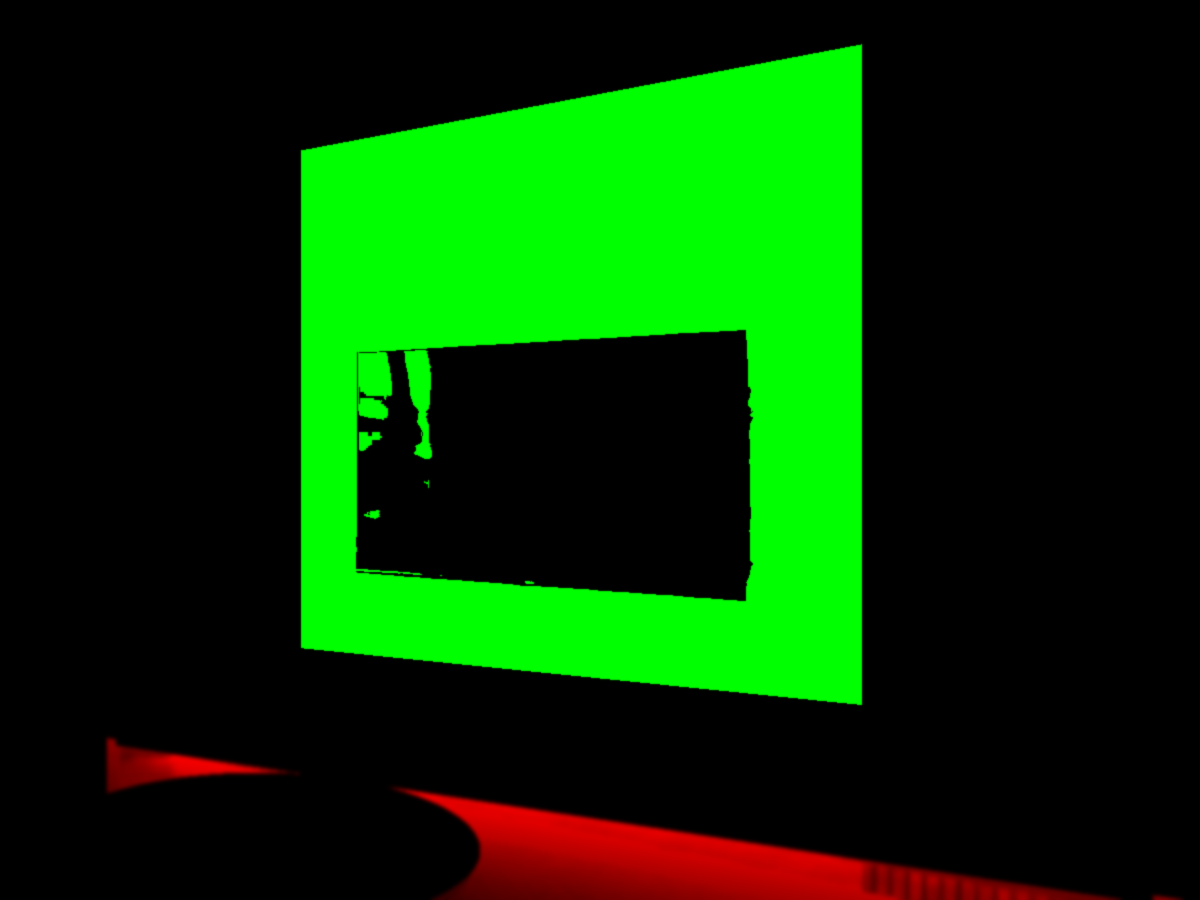
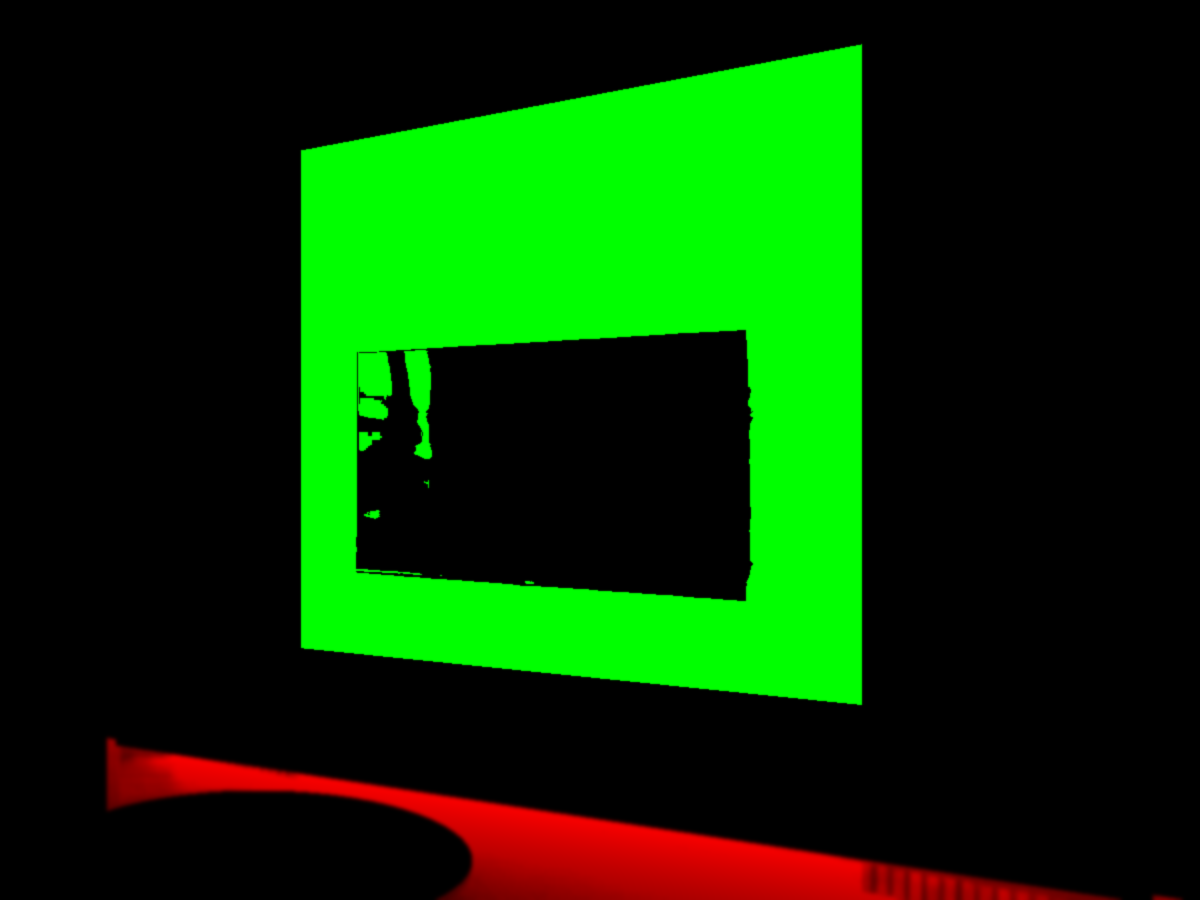
Fit the unit recolouring cleanly and turn the LED fully off
The wood mask now covers the whole slat and cabinet areas, shadows and
gaps included, picking out only the vases, plant, books and armchair, so
no walnut is left showing through a lacquer finish. Lacquers lose the
fine grain but keep the drawer gaps. The LED-off light map reaches the
floor behind the coffee table and dims it further.

Changed region(s): [[0.0617, 0.84, 0.8633, 1.0]]

diff --git a/arkhera.html b/arkhera.html
@@ -849,13 +849,13 @@ document.documentElement.classList.add('js');
   const reduce = matchMedia('(prefers-reduced-motion: reduce)').matches;
   const RAMP = { // dark → light, for wood and lacquer
     ceviz: [[38, 24, 16], [150, 108, 74]], mese: [[112, 76, 44], [228, 188, 136]],
-    antrasit: [[24, 23, 22], [98, 96, 93]], krem: [[166, 156, 141], [241, 234, 223]],
+    antrasit: [[16, 16, 15], [100, 98, 95]], krem: [[124, 116, 104], [243, 237, 227]],
   };
   const TRAV = [[176, 160, 132], [234, 224, 204]], BLACK = [[18, 17, 16], [74, 72, 70]];
   const N = 1200 * 900;
   const lerp = (a, b, t) => a + (b - a) * t, clamp = t => t < 0 ? 0 : t > 1 ? 1 : t;
   const ramp = (c, t) => [lerp(c[0][0], c[1][0], t), lerp(c[0][1], c[1][1], t), lerp(c[0][2], c[1][2], t)];
-  let src = null, mask = null, glow = null, lum = null, shown = '', busy = null;
+  let src = null, mask = null, glow = null, lum = null, flat = null, shown = '', busy = null;
   const pixels = url => new Promise((ok, fail) => {
     const im = new Image();
     im.onload = () => { const c = document.createElement('canvas'); c.width = 1200; c.height = 900; const x = c.getContext('2d'); x.drawImage(im, 0, 0, 1200, 900); ok(x.getImageData(0, 0, 1200, 900).data); };
@@ -881,7 +881,9 @@ document.documentElement.classList.add('js');
         r = lerp(r, c[0], sm); g = lerp(g, c[1], sm); b = lerp(b, c[2], sm);
       }
       if (wm > 0 && o.body !== 'ceviz') {
-        const c = ramp(wood, clamp((L - .04) / .42));
+        // lacquer has no grain: take the light from the grain-free luminance and keep only some of the contrast
+        const lacquer = o.body === 'antrasit' || o.body === 'krem';
+        const c = ramp(wood, clamp(((lacquer ? flat[p] * .55 + L * .45 : L) - .04) / .42));
         r = lerp(r, c[0], wm); g = lerp(g, c[1], wm); b = lerp(b, c[2], wm);
       }
       if (mm > 0 && o.metal === 'siyah' && !cita) {
@@ -889,7 +891,7 @@ document.documentElement.classList.add('js');
         r = lerp(r, c[0], mm); g = lerp(g, c[1], mm); b = lerp(b, c[2], mm);
       }
       if (gl > 0 && !o.led) { // without the LED: darker and no longer amber
-        const k = 1 - .74 * gl, a = (r + g + b) / 3, q = .55 * gl;
+        const k = 1 - .86 * gl, a = (r + g + b) / 3, q = .75 * gl;
         r = lerp(r, a, q) * k; g = lerp(g, a, q) * k; b = lerp(b, a, q) * k + 3 * gl;
       }
       d[i] = r; d[i + 1] = g; d[i + 2] = b; d[i + 3] = 255;
@@ -920,6 +922,10 @@ document.documentElement.classList.add('js');
     Promise.all([pixels('img/tasarla.webp'), pixels('img/tasarla-mask.png'), pixels('img/tasarla-glow.png')]).then(([a, m, g]) => {
       src = a; mask = m; glow = g; lum = new Float32Array(N);
       for (let p = 0, i = 0; p < N; p++, i += 4) lum[p] = (.299 * a[i] + .587 * a[i + 1] + .114 * a[i + 2]) / 255;
+      // luminance averaged over 9 px vertically and 5 px across: the cabinet's fine grain goes, edges and slat gaps stay
+      const tmp = new Float32Array(N); flat = new Float32Array(N);
+      for (let y = 0; y < 900; y++) for (let x = 0; x < 1200; x++) { let s = 0, n = 0; for (let d = -2; d <= 2; d++) { const xx = x + d; if (xx >= 0 && xx < 1200) { s += lum[y * 1200 + xx]; n++; } } tmp[y * 1200 + x] = s / n; }
+      for (let x = 0; x < 1200; x++) { let s = 0, n = 0; for (let y = -4; y < 900; y++) { if (y + 4 < 900) { s += tmp[(y + 4) * 1200 + x]; n++; } if (y - 5 >= 0) { s -= tmp[(y - 5) * 1200 + x]; n--; } if (y >= 0) flat[y * 1200 + x] = s / n; } }
       shown = JSON.stringify(options());
       now.getContext('2d').putImageData(render(options()), 0, 0);
       view.classList.add('live');

diff --git a/tools/masks.py b/tools/masks.py
@@ -25,6 +25,10 @@ STONE = [(301, 150), (861, 44), (861, 708), (301, 652)]  # down to the cabinet t
 CABINET = [(106, 628), (1152, 734), (1152, 900), (1128, 900), (116, 745)]
 TV = [(354, 349), (748, 329), (748, 602), (354, 575)]
 FRAME = [(320, 176), (829, 95), (829, 668), (320, 613)]
+VASES = [(158, 560), (256, 560), (256, 650), (158, 650)]
+PLANT = [(928, 590), (1078, 590), (1078, 768), (928, 768)]  # plant, pot and books
+ARMCHAIR = [(90, 615), (128, 615), (128, 770), (90, 770)]   # its arm overlaps the cabinet's left end
+BOOKS = [(934, 707), (1063, 714), (1065, 756), (932, 745)]  # dark spines too, so the whole stack
 # the cabinet's lower edge, from which the LED light falls on the floor and the stone
 CAB_BOTTOM = [(116, 745), (1128, 897)]
 
@@ -44,9 +48,13 @@ def main():
     r, g, b = rgb[..., 0], rgb[..., 1], rgb[..., 2]
     mx, mn = rgb.max(-1), rgb.min(-1)
     sat = np.where(mx > 0, (mx - mn) / np.maximum(mx, 1e-6), 0)
-    # brown: red over green over blue, not bright, not grey; this keeps out the cream vases, white books and green plant
-    brown = (r > g) & (g >= b * .92) & (mx < .72) & ((sat > .18) | (mx < .3))
-    green = (g > r * 1.02) & (g > b)
+    # the things standing on or against the unit: cream vases, white pot and books, the armchair, the plant.
+    # Everything else inside the wood zones is wood, its shadows, highlights and dark gaps included.
+    # They are picked out only inside their own boxes, where anything not dark brown wood belongs to them.
+    green = (g > r * 1.02) & (g > b) & (sat > .12)
+    not_wood = ((mx > .42) & (sat < .34)) | green
+    boxes = np.clip(poly(VASES) + poly(PLANT) + poly(ARMCHAIR), 0, 1)
+    objects = not_wood * boxes
 
     frame = poly(FRAME, width=7)
     # the TV is its dark pixels inside a slightly larger outline, so the stone reaches right up to its edge
@@ -54,7 +62,10 @@ def main():
     tv = tv_zone * (mx < .3)
     cab = poly(CABINET)
     wood_zone = np.clip(poly(SLATS_L) + poly(SLATS_R) + cab, 0, 1)
-    wood = wood_zone * brown * (1 - green)
+    # opening: thin bright slat edges inside the boxes drop out, the solid objects stay (and grow a little)
+    obj_img = Image.fromarray((objects * 255).astype(np.uint8)).filter(ImageFilter.MinFilter(5)).filter(ImageFilter.MaxFilter(9))
+    obj = np.clip(np.asarray(obj_img, dtype=np.float32) / 255 * boxes + poly(BOOKS), 0, 1)
+    wood = wood_zone * (1 - obj)
     # low saturation keeps the oak floor under the cabinet out of the stone
     stone = poly(STONE) * (1 - cab) * (1 - tv) * (1 - frame) * (mx > .42) * (sat < .32) * (1 - wood)
     metal = frame * (1 - tv) * (sat > .08)
@@ -70,9 +81,9 @@ def main():
     ys, xs = np.mgrid[0:H, 0:W].astype(np.float32)
     edge = y0 + (xs - x0) * (y1 - y0) / (x1 - x0)
     below = ys - edge
-    fall = np.where((below > -6) & (xs > x0 - 10), np.exp(-np.maximum(below, 0) / 120), 0)
-    warmth = np.clip((r - b) * 2.2, 0, 1) * np.clip(mx * 1.3, 0, 1)
-    table = ((xs - 258) / 222) ** 2 + ((ys - 850) / 78) ** 2 < 1  # the coffee table in front keeps its own light
+    fall = np.where((below > -6) & (xs > x0 - 10), np.exp(-np.maximum(below, 0) / 170), 0)
+    warmth = np.clip((r - b) * 2.6, 0, 1) * np.clip(mx * 1.4, 0, 1)
+    table = ((xs - 258) / 214) ** 2 + ((ys - 860) / 70) ** 2 < 1  # the coffee table's top keeps its own light
     glow = np.clip(fall * (.35 + .65 * warmth), 0, 1) * (1 - cab) * (1 - table)
     glow_img = Image.fromarray((glow * 255).astype(np.uint8)).filter(ImageFilter.GaussianBlur(2))
     # G: the whole panel face (frame and edge pixels included), covered completely when the panel is slats
